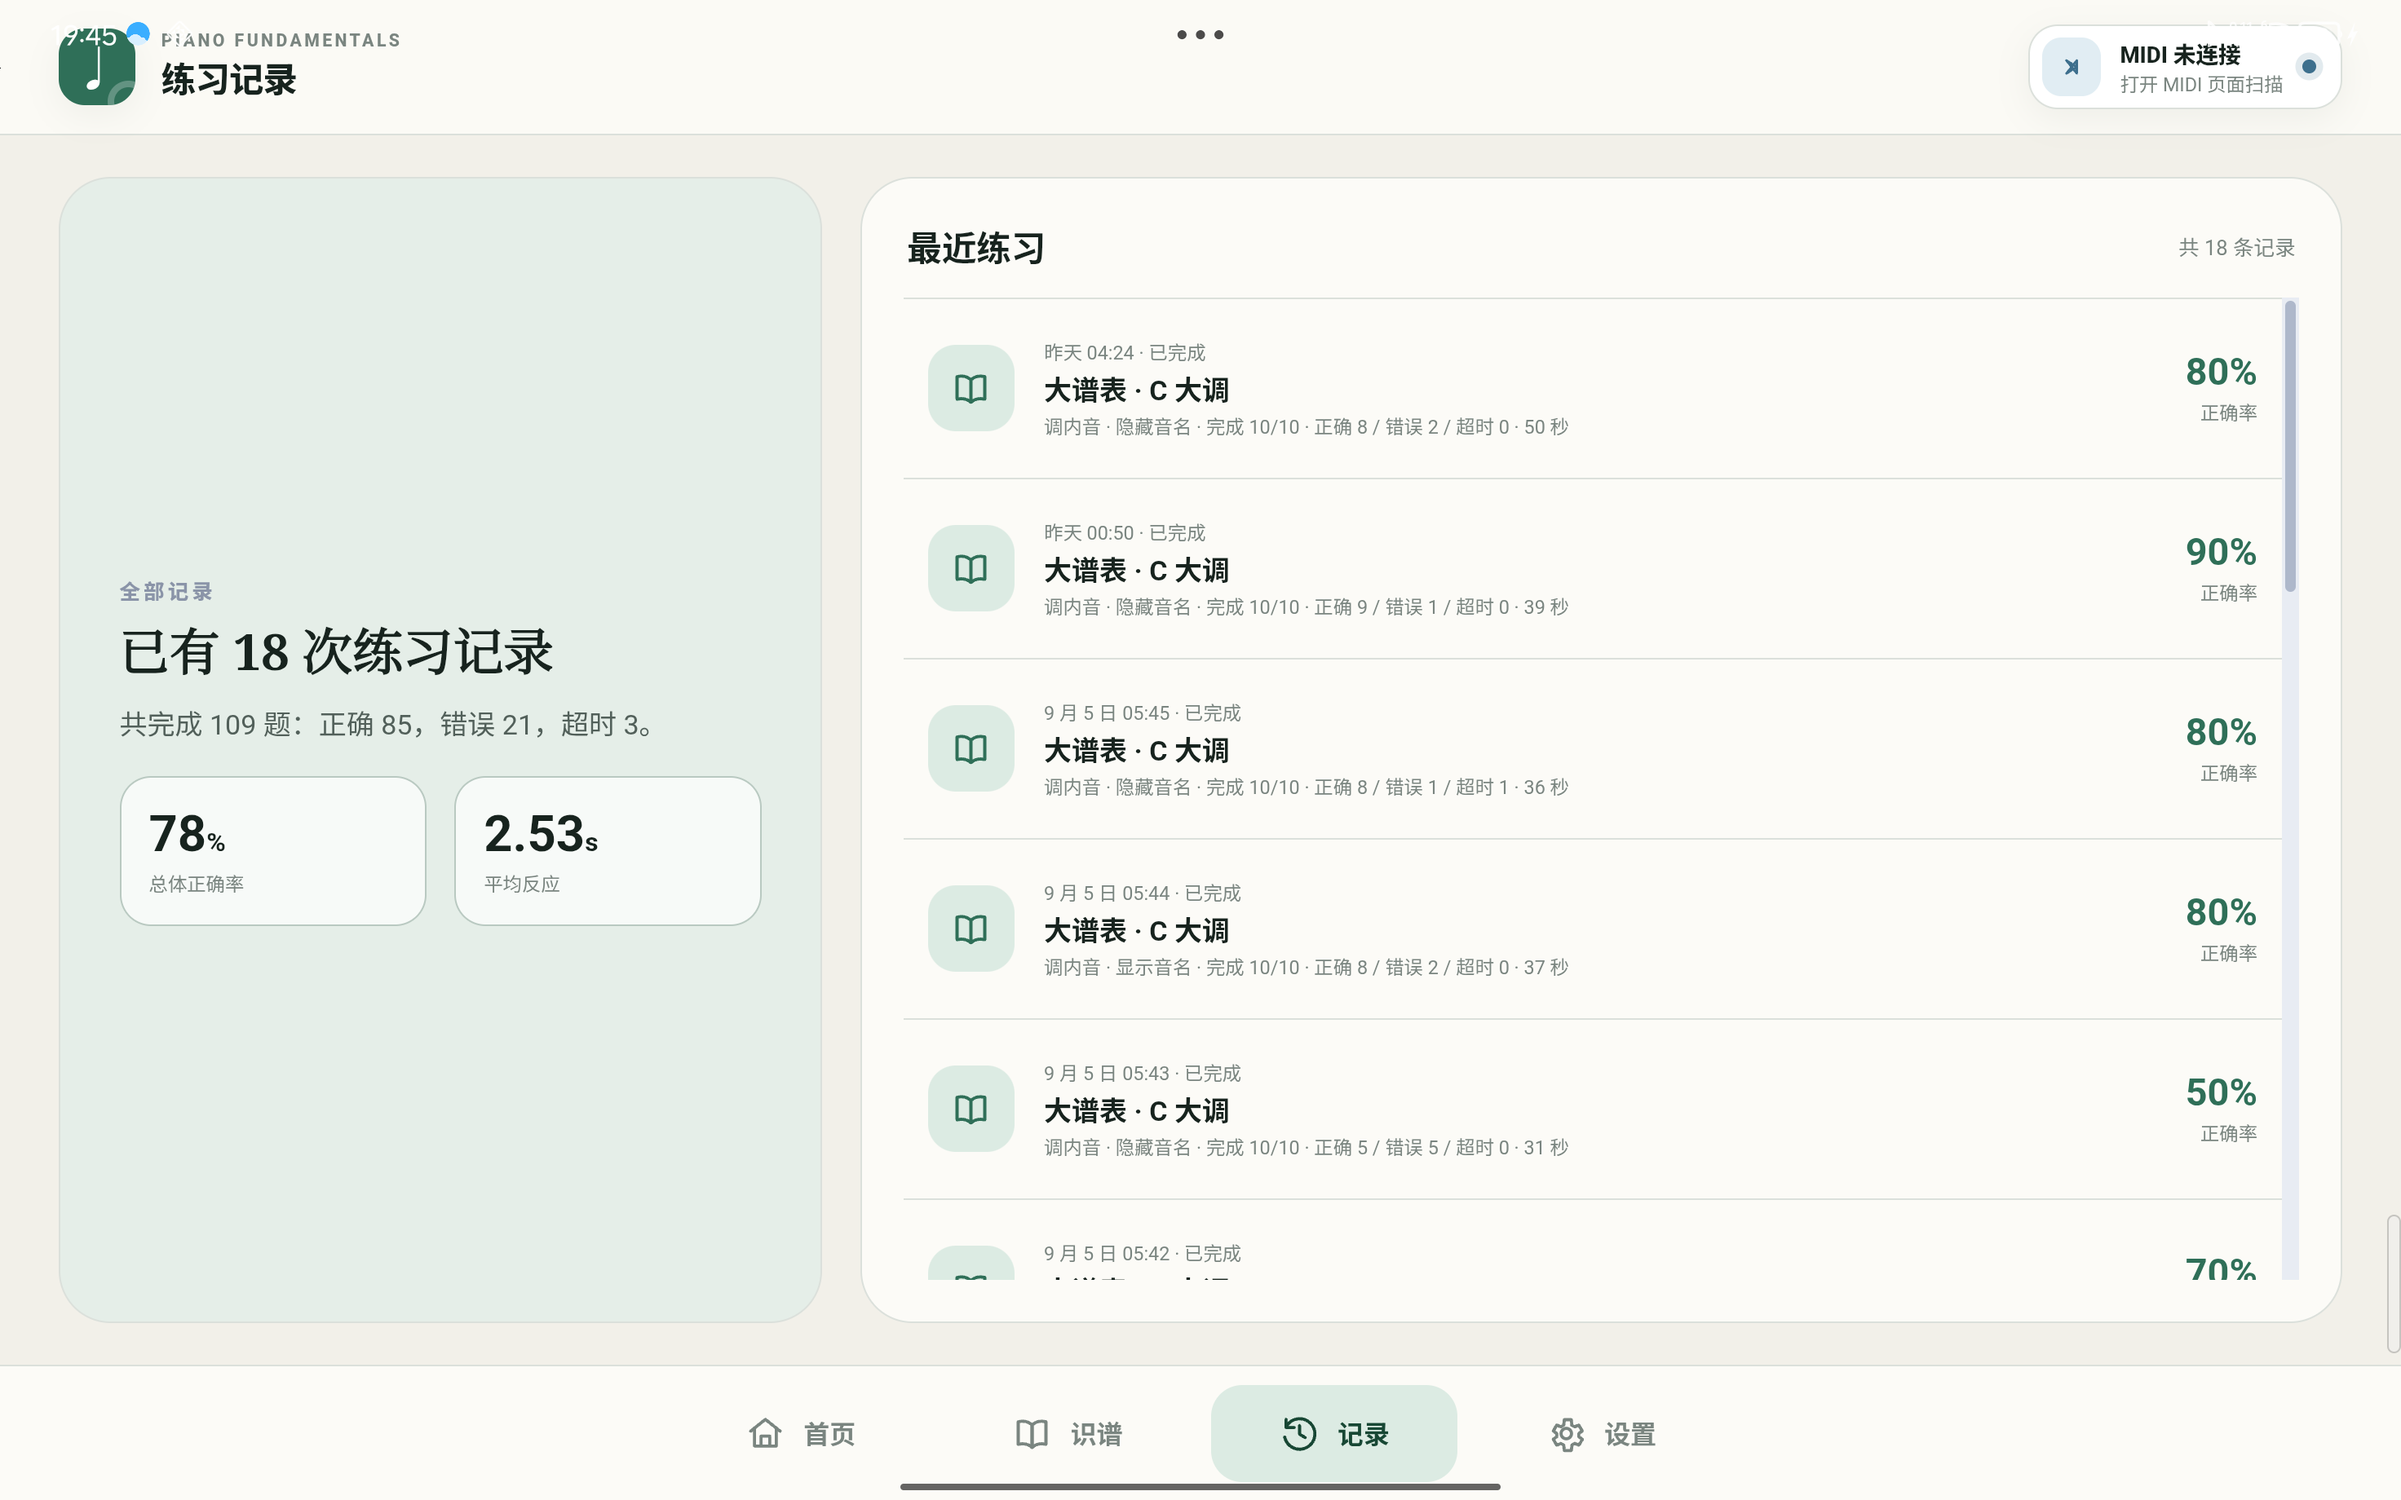
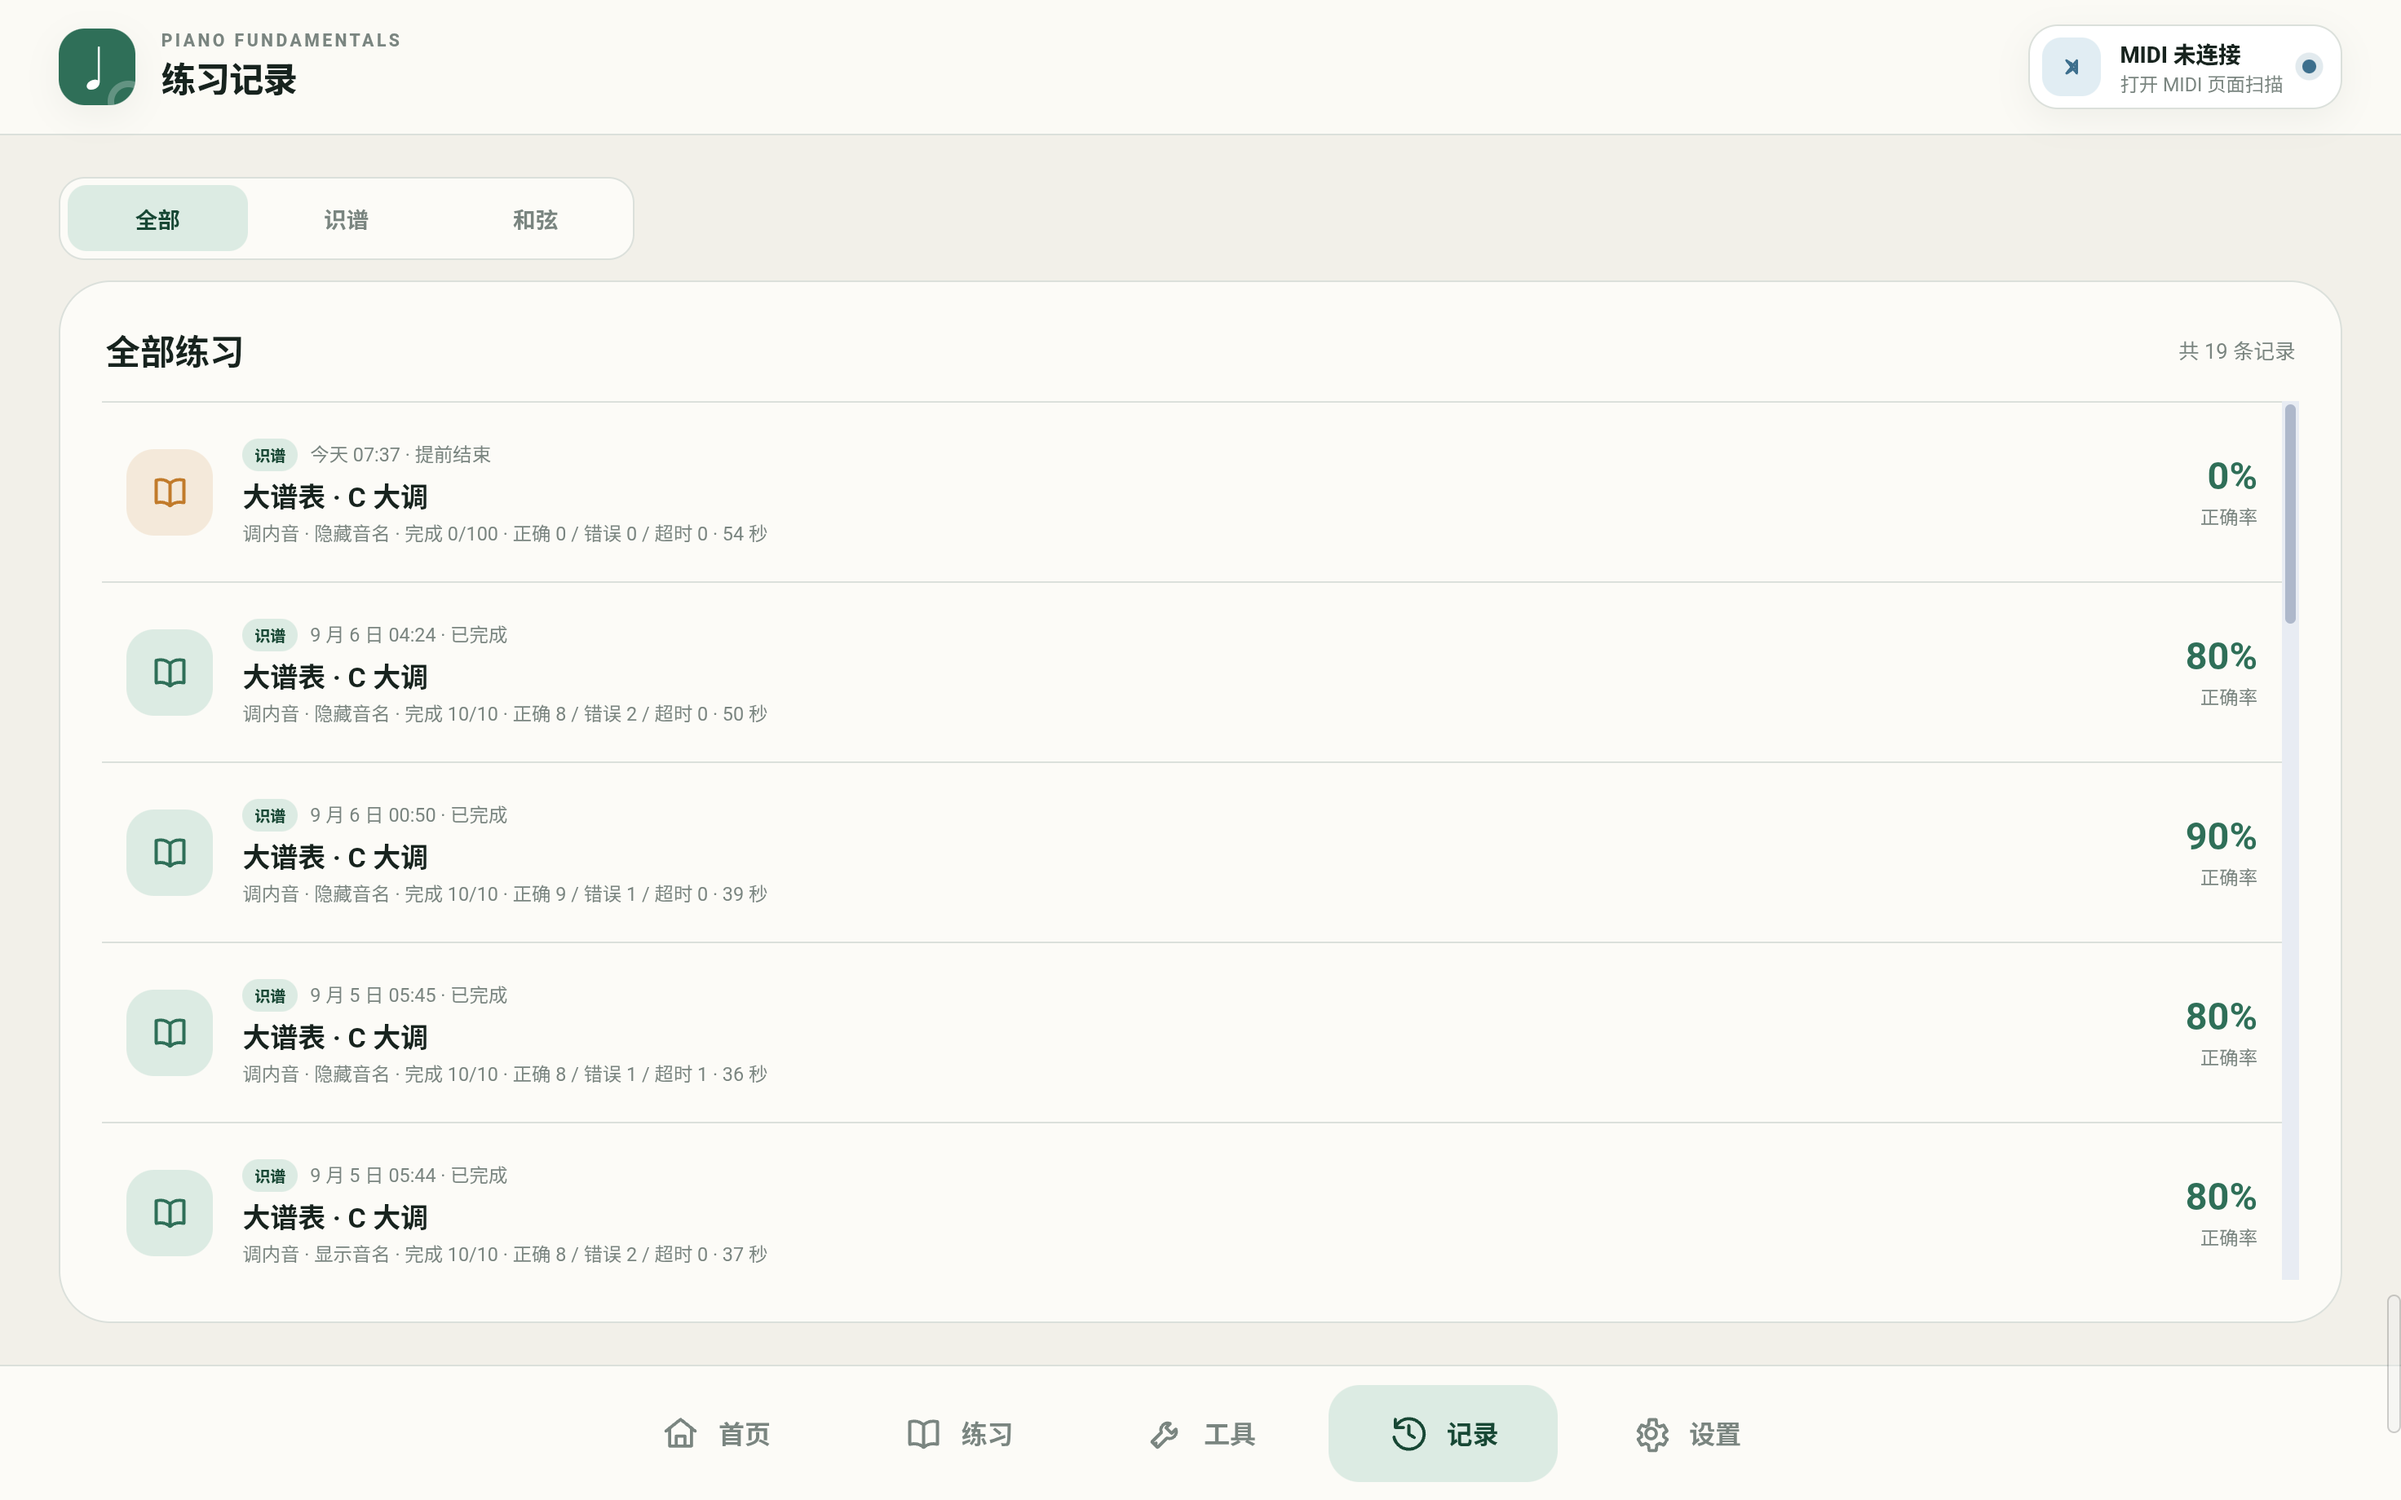
Refresh Android 1.5.2 public screenshots

diff --git a/README.md b/README.md
@@ -94,23 +94,41 @@ npm.cmd run android:verify:debug
 
 ## 截图
 
-以下画面来自真实 Android 平板上的正式应用界面。系统状态栏仅包含常规时间、电量与导航信息。
+以下画面均来自 Lenovo Xiaoxin Pad Pro 12.7 横屏平板上的 Android 1.5.2 正式 Release，并使用真实本地数据与 Roland FP-30X Bluetooth MIDI 输入。
 
-### 首页
+### 首页与练习
 
 ![首页](docs/screenshots/home.png)
 
+![练习](docs/screenshots/practice.png)
+
 ### 识谱练习
 
-![识谱练习设置](docs/screenshots/sight-reading-settings.png)
+![识谱练习](docs/screenshots/sight-reading.png)
 
-![单音识谱练习](docs/screenshots/sight-reading-single.png)
+### 和弦练习
 
-![双音识谱练习](docs/screenshots/sight-reading-double.png)
+![和弦练习](docs/screenshots/chord-practice.png)
 
-### 练习记录
+### 乐理工具
+
+![乐理工具](docs/screenshots/tools.png)
+
+![和弦查询](docs/screenshots/chord-query.png)
+
+![音阶与调号](docs/screenshots/scale-key-signature.png)
+
+![音程查询](docs/screenshots/interval-query.png)
+
+### 记录与设置
 
 ![练习记录](docs/screenshots/history.png)
+
+![设置](docs/screenshots/settings.png)
+
+### 应用更新
+
+![应用更新](docs/screenshots/update.png)
 
 ## 许可证
 

diff --git a/docs/FORKS_AND_OFFICIAL_BUILDS.md b/docs/FORKS_AND_OFFICIAL_BUILDS.md
@@ -3,8 +3,8 @@
 ## Official identity
 
 - Package ID: `com.pianofundamentals.trainer`
-- Official release repository: `Natural516/piano-trainer-releases`
-- Official update Manifest: `https://github.com/Natural516/piano-trainer-releases/releases/latest/download/latest.json`
+- Official source and release repository: `Natural516/piano-fundamentals-trainer`
+- Official update Manifest: `https://github.com/Natural516/piano-fundamentals-trainer/releases/latest/download/latest.json`
 - Official builds are signed with the Natural516-controlled permanent release identity. Private signing material is not public.
 
 Android signature rules and the updater's exact signer-set verification protect the official package. They do not make an unchanged fork identity safe for redistribution: a modified build can conflict with the installed official app, query the official channel and present confusing update information.
